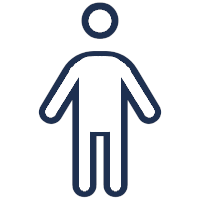
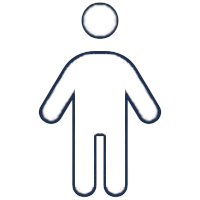
Replaced male image, added unit test

Changed region(s): [[0.21, 0.27, 0.81, 0.99], [0.39, 0.0, 0.6, 0.21]]

diff --git a/__tests__/screens/home/Home.test.tsx b/__tests__/screens/home/Home.test.tsx
@@ -1,22 +1,26 @@
 import 'react-native';
 import React from 'react';
-import { describe, it, expect, jest, beforeEach } from '@jest/globals';
+import { describe, it, expect, jest, afterEach, beforeEach } from '@jest/globals';
 import { renderWithProviders } from '../../../utils/test-utils';
 
 import { Home } from '../../../src/screens/home';
 import { getPreloadedState } from '../../../utils/utils';
 import { fireEvent, within } from '@testing-library/react-native';
 
-import AsynStorage from '@react-native-async-storage/async-storage';
-import { STORE_KEY_DAILY_CONSUMPTION_WITH_COFFEE } from '../../../src/constants';
+import AsyncStorage from '@react-native-async-storage/async-storage';
+import { STORE_KEY_DAILY_CONSUMPTION_WITH_COFFEE, STORE_KEY_SETTINGS_HUMAN_ICON } from '../../../src/constants';
 
 jest.useFakeTimers();
 
 describe('Home Screen', () => {
 
   beforeEach(async () => {
-    await AsynStorage.clear();
-    await AsynStorage.setItem(STORE_KEY_DAILY_CONSUMPTION_WITH_COFFEE, '1000');
+    await AsyncStorage.setItem(STORE_KEY_DAILY_CONSUMPTION_WITH_COFFEE, '1000');
+  });
+
+  afterEach(async () => {
+    await AsyncStorage.clear();
+    
   });
 
   it('Renders properly with 0 ml', async () => {
@@ -109,4 +113,26 @@ describe('Home Screen', () => {
     expect(res).toBeDefined();
   });
 
+  it('renders female image', async () => {
+    const preloadedState = getPreloadedState({});
+
+    const screen = renderWithProviders(<Home />, { preloadedState });
+    const image = await screen.findByTestId('personImage');
+
+    expect(image.props.source.testUri).toContain('/female-200.png');
+  });
+
+  it('renders male image', async () => {
+    await AsyncStorage.setItem(STORE_KEY_SETTINGS_HUMAN_ICON, 'false');
+    const preloadedState = getPreloadedState({
+      settingsOverloads: {
+        femaleIcon: false
+      }
+    });
+
+    const screen = renderWithProviders(<Home />, { preloadedState });
+    const image = await screen.findByTestId('personImage');
+
+    expect(image.props.source.testUri).toContain('/male-200.png');
+  });
 });

diff --git a/src/screens/home/index.tsx b/src/screens/home/index.tsx
@@ -62,6 +62,7 @@ export const Home = (): JSX.Element => {
           key="top"
           source={femaleIcon ? require('../../images/female-200.png') : require('../../images/male-200.png')}
           style={styles.image}
+          testID='personImage'
         />
         <RenderMaskedView waterLevel={waterLevel} />
       </View>
